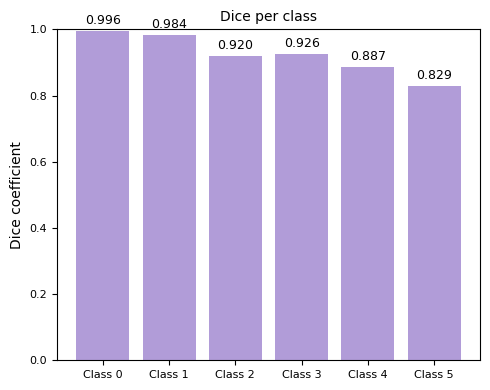
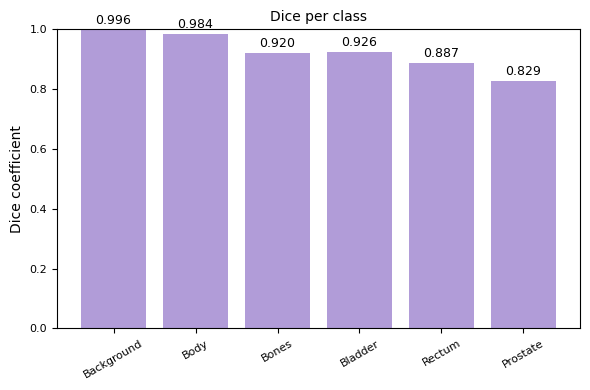
Rename class labels to the actual class names

diff --git a/recognition/Improved_UNet_s4979993/predict.py b/recognition/Improved_UNet_s4979993/predict.py
@@ -50,16 +50,22 @@ for i, d in enumerate(mean_dice):
 
 # Define class colors and labels for visualisation
 colors = [
-    "#000000",  # Class 0 – black
-    "#c9c9ff",  # Class 1 – purple
-    "#bb6688",  # Class 2 – red
-    "#2bc191",  # Class 3 – green
-    "#65a3df",  # Class 4 – blue
-    "#ffd966"   # Class 5 – yellow
+    "#000000",  # 0 – Background (black)
+    "#c9c9ff",  # 1 – Body (purple)
+    "#bb6688",  # 2 – Bones (red)
+    "#2bc191",  # 3 – Bladder (green)
+    "#65a3df",  # 4 - Rectum (blue)
+    "#ffd966"   # 5 – Prostate (yellow)
 ]
 class_labels = [
-    "Class 0", "Class 1", "Class 2", "Class 3", "Class 4", "Class 5"
+    "0: Background",
+    "1: Body",
+    "2: Bones",
+    "3: Bladder",
+    "4: Rectum",
+    "5: Prostate"
 ]
+
 custom_cmap = ListedColormap(colors)
 
 # Create output directory for predictions
@@ -68,8 +74,7 @@ os.makedirs(output_dir, exist_ok=True)
 
 # Visualise predictions on a few examples
 num_examples = 3
-count = 0
-fig, axes = plt.subplots(num_examples, 3, figsize=(9, 3 * num_examples))
+found_samples = []
 
 with torch.no_grad():
     for imgs, masks in test_loader:
@@ -78,30 +83,35 @@ with torch.no_grad():
         preds = torch.argmax(torch.softmax(outputs, dim=1), dim=1)
 
         for j in range(imgs.size(0)):
-            if count >= num_examples:
-                break
-
-            img = imgs[j].cpu().squeeze()
             mask = masks[j].cpu()
-            pred = preds[j].cpu()
+            unique_classes = torch.unique(mask)
 
-            # Plot input, ground truth and prediction
-            ax_img, ax_gt, ax_pred = axes[count]
-            ax_img.imshow(img, cmap="gray")
-            ax_gt.imshow(mask, cmap=custom_cmap, vmin=0, vmax=len(colors)-1)
-            ax_pred.imshow(pred, cmap=custom_cmap, vmin=0, vmax=len(colors)-1)
+            # Only keep samples containing all 6 classes
+            if len(unique_classes) == num_classes and all(
+                c in unique_classes for c in range(num_classes)
+            ):
+                found_samples.append((imgs[j].cpu().squeeze(), mask, preds[j].cpu()))
 
-            ax_img.set_title("Input MRI", fontsize=11)
-            ax_gt.set_title("Ground Truth", fontsize=11)
-            ax_pred.set_title("Prediction", fontsize=11)
-
-            for ax in (ax_img, ax_gt, ax_pred):
-                ax.axis("off")
-
-            count += 1
-
-        if count >= num_examples:
+            if len(found_samples) >= num_examples:
+                break
+        if len(found_samples) >= num_examples:
             break
+
+# Plot input, ground truth and prediction
+fig, axes = plt.subplots(num_examples, 3, figsize=(9, 3 * num_examples))
+
+for i, (img, mask, pred) in enumerate(found_samples):
+    ax_img, ax_gt, ax_pred = axes[i]
+    ax_img.imshow(img, cmap="gray")
+    ax_gt.imshow(mask, cmap=custom_cmap, vmin=0, vmax=len(colors)-1)
+    ax_pred.imshow(pred, cmap=custom_cmap, vmin=0, vmax=len(colors)-1)
+
+    ax_img.set_title("Input MRI", fontsize=11)
+    ax_gt.set_title("Ground Truth", fontsize=11)
+    ax_pred.set_title("Prediction", fontsize=11)
+
+    for ax in (ax_img, ax_gt, ax_pred):
+        ax.axis("off")
 
 # Add color legend for classes
 patches = [mpatches.Patch(color=colors[i], label=class_labels[i]) for i in range(len(colors))]
@@ -120,13 +130,13 @@ plt.savefig(os.path.join(output_dir, "hipmri_predictions.png"), bbox_inches="tig
 plt.close()
     
 # Dice coefficient visualisation
-classes = [f"Class {i}" for i in range(num_classes)]
-plt.figure(figsize=(5, 4))
+classes = ["Background", "Body", "Bones", "Bladder", "Rectum", "Prostate"]
+plt.figure(figsize=(6, 4))
 bars = plt.bar(classes, mean_dice, color="#b19cd8")
 plt.ylim(0, 1)
 plt.ylabel("Dice coefficient", fontsize=10)
-plt.title(f"Dice per class", fontsize=10)
-plt.xticks(fontsize=8)
+plt.title("Dice per class", fontsize=10)
+plt.xticks(rotation=30, fontsize=8)
 plt.yticks(fontsize=8)
 
 # Add value labels above bars
